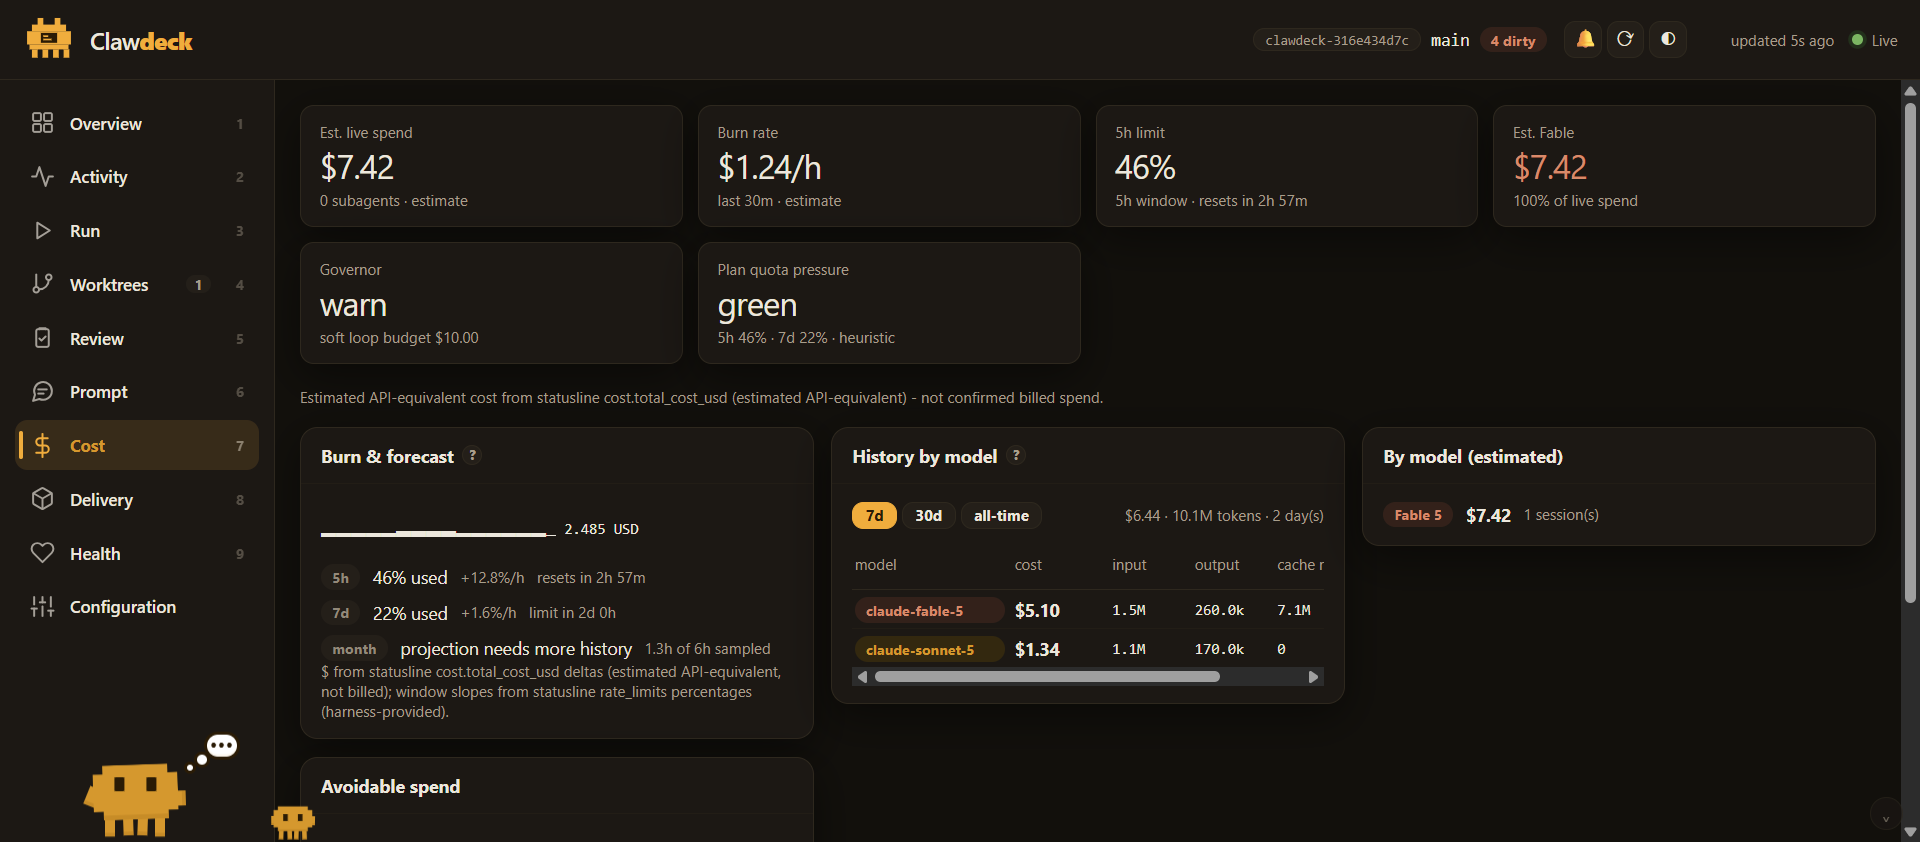
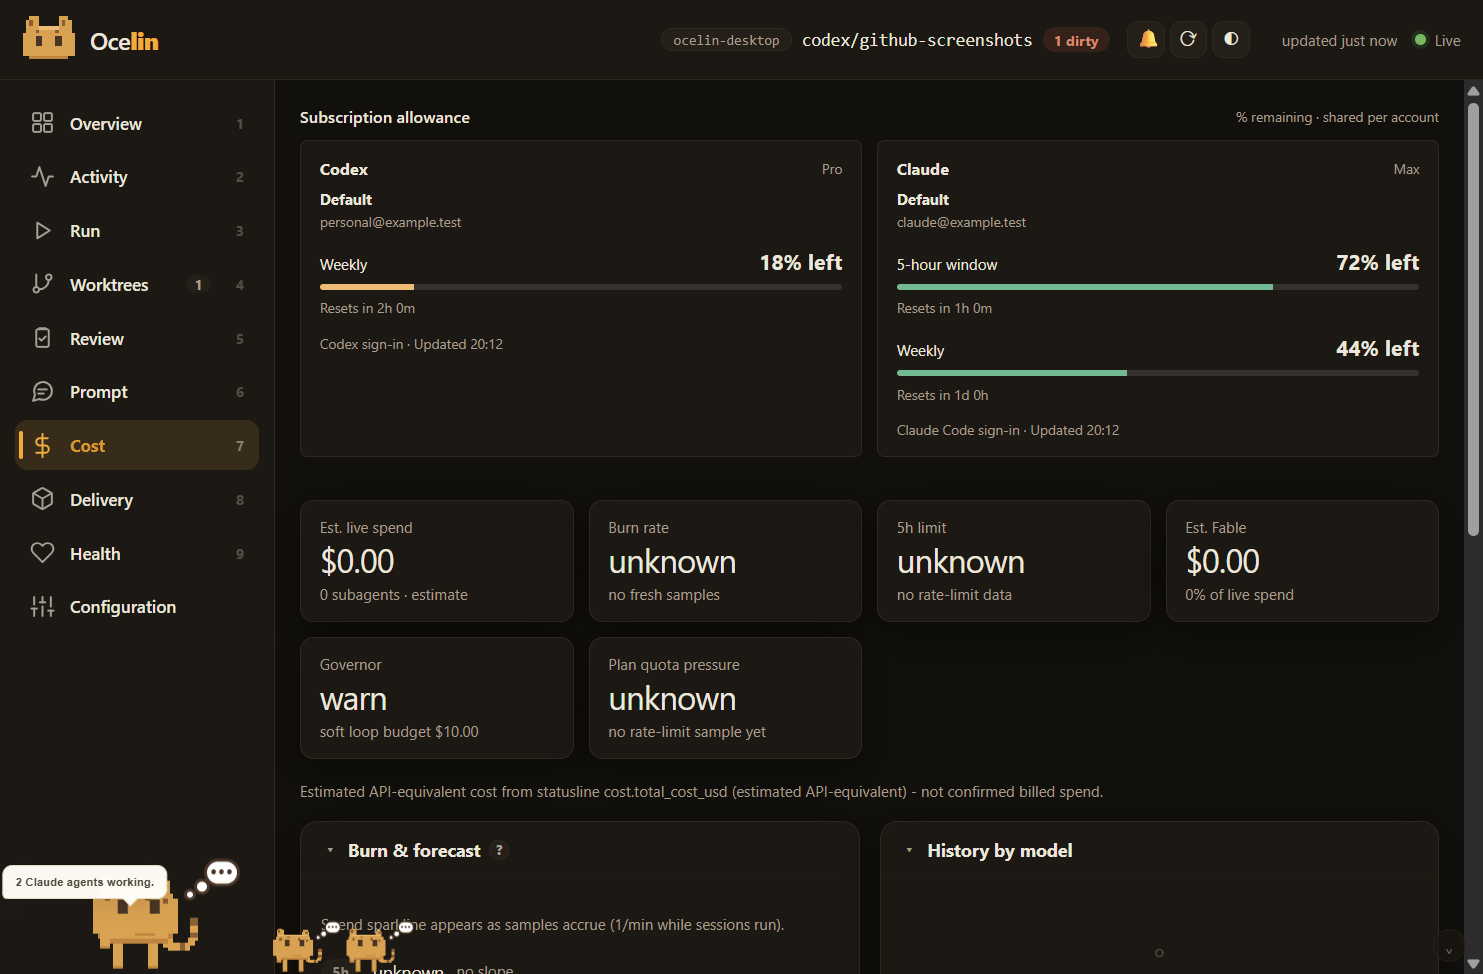
docs: refresh GitHub screenshots for Ocelin 0.6.5

diff --git a/README.md b/README.md
@@ -22,9 +22,17 @@ The taskbar puts **running sessions and subscription % left** first. Settings ca
 
 Windows options include the tray, Ctrl Alt O quick panel, floating bar, dashboard, a [native App Tasks development bridge](desktop/native/README.md), and the [optional Taskbar Widgets strip](desktop/integrations/taskbar-widgets/README.md). Native shell features have additional OS/package requirements. [What 0.6 implements and how it was validated](docs/OCELIN-0.6-VALIDATION.md).
 
-![Ocelin Windows dashboard with sample Codex and Claude sessions](docs/assets/ocelin-desktop.png)
+Screenshots from **Ocelin 0.6.5**, using sample conversations, accounts and allowance readings. Memory figures come from the capture machine.
 
-![Ocelin floating session bar with sample sessions](docs/assets/ocelin-bar.png)
+![Ocelin dashboard with Codex and Claude subscription percentages, reset countdowns, active sessions and the Doctor button](docs/assets/ocelin-desktop.png)
+
+| Sliding session panel | Doctor: cleanup and memory |
+| --- | --- |
+| <img src="docs/assets/ocelin-panel.png" width="340" alt="Ocelin sliding panel with remaining allowance, active sessions and Open workspace" /> | <img src="docs/assets/ocelin-doctor.png" width="340" alt="Doctor with reversible history cleanup, measured memory and separate app stop controls" /> |
+
+The movable floating tile can show the same running counts and allowance percentages as the optional taskbar strip:
+
+![Ocelin floating tile with one running session, one needing attention, Codex 18% and Claude 44% remaining](docs/assets/ocelin-tile.png)
 
 From source (Node 22.12 or newer):
 
@@ -48,7 +56,7 @@ work on with either assistant and it shows what is actually happening: live
 sessions, an event timeline, cost and context telemetry, git worktrees,
 reviews, and delivery state - in one local web UI.
 
-Existing project dashboard (screenshot from the earlier Clawdeck release):
+Choose **Open workspace** in the companion to reach the full project dashboard:
 
 ![Project overview dashboard, dark theme](docs/assets/dashboard.png)
 
@@ -86,13 +94,13 @@ never move state - only a human action promotes advice into anything.
 with real durations: subagent tasks, failing commands, and human-wait spans
 (dashed, width-capped) at a glance.
 
-![Trace waterfall: turns with tool-call spans on a timeline](docs/assets/trace.png)
-
 **Burn rate & forecast** - $/hour from statusline cost deltas, 5h/7d
 depletion slopes with ETA, per-model token history over 7d/30d/all-time
 windows. Estimates are labelled as estimates; unknowns stay unknown.
 
-![Cost hub: burn KPIs, forecast card, per-model history](docs/assets/cost.png)
+The Cost page also shows subscription percentages and reset countdowns separately from estimated API-equivalent spending.
+
+![Ocelin Cost page with sample Codex and Claude subscription allowances above separate spending estimates](docs/assets/cost.png)
 
 **Ask Ocelin** (Prompt hub) - ask questions about panel state, answered by
 a local `claude -p` child running tool-less in a sterile temp dir; the only
